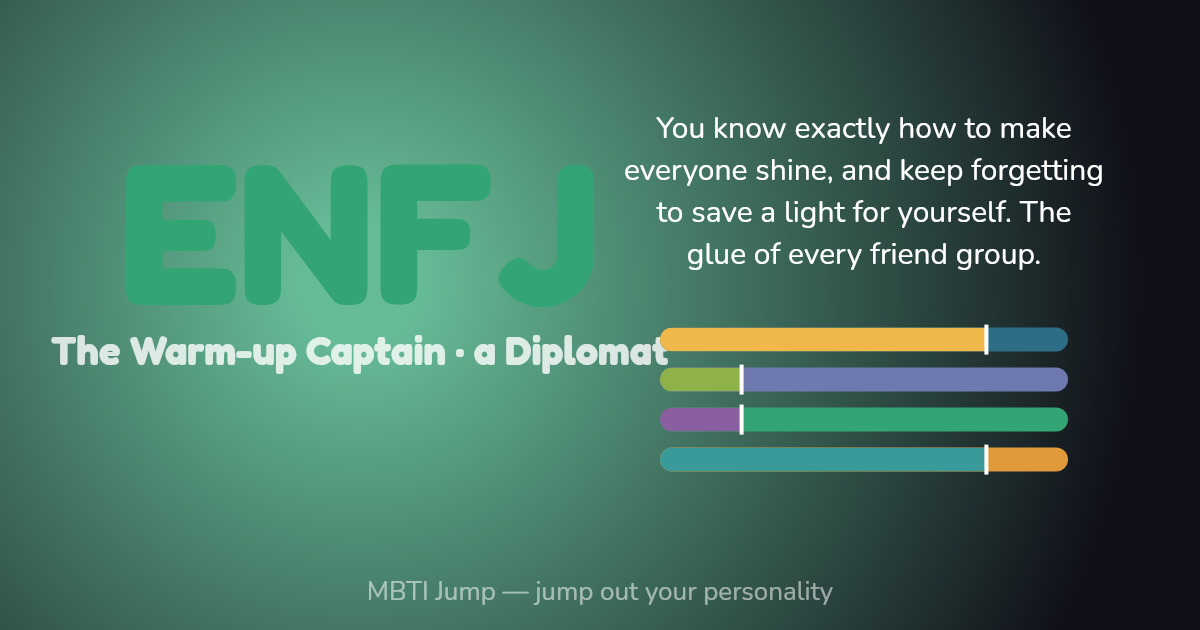
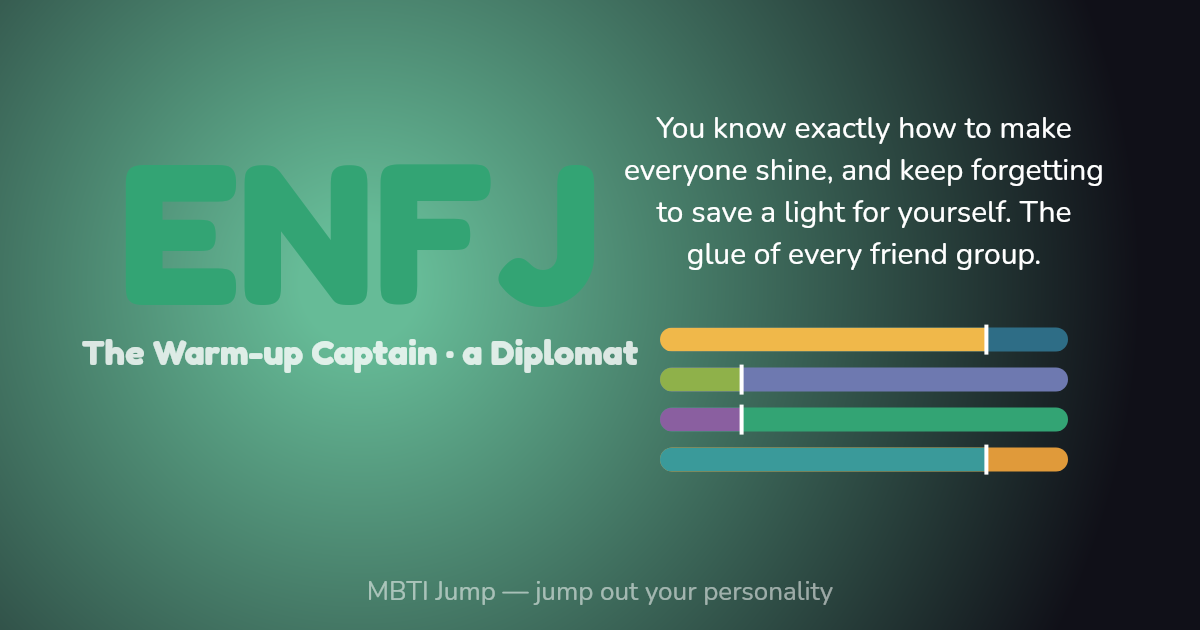
fix: shrink OG group line to fit before dim bars (long en/es nickname·group)

Changed region(s): [[0.0308, 0.5127, 0.555, 0.6032]]

diff --git a/src/share/ogCard.ts b/src/share/ogCard.ts
@@ -25,8 +25,17 @@ export function drawOgCard(ctx: CanvasRenderingContext2D, model: ShareCardModel)
   ctx.fillStyle = hex(model.groupColor);
   ctx.font = "800 200px Fredoka, 'Noto Sans TC', 'Noto Sans SC', 'Noto Sans JP', sans-serif";
   ctx.fillText(model.type, OG_W * 0.3, OG_H * 0.48);
+  // 族群行：綽號 · 族群名可能較長（尤其 en/es），縮字級以免伸進右側維度條
   ctx.fillStyle = '#ffffffcc';
-  ctx.font = "600 40px Fredoka, 'Noto Sans TC', 'Noto Sans SC', 'Noto Sans JP', sans-serif";
+  const GROUP_MAXW = 560;
+  let groupSize = 40;
+  const groupFont = (px: number) =>
+    `600 ${px}px Fredoka, 'Noto Sans TC', 'Noto Sans SC', 'Noto Sans JP', sans-serif`;
+  ctx.font = groupFont(groupSize);
+  while (groupSize > 24 && ctx.measureText(model.groupName).width > GROUP_MAXW) {
+    groupSize -= 2;
+    ctx.font = groupFont(groupSize);
+  }
   ctx.fillText(model.groupName, OG_W * 0.3, OG_H * 0.58);
 
   // 右半：描述（換行）＋四維度條
